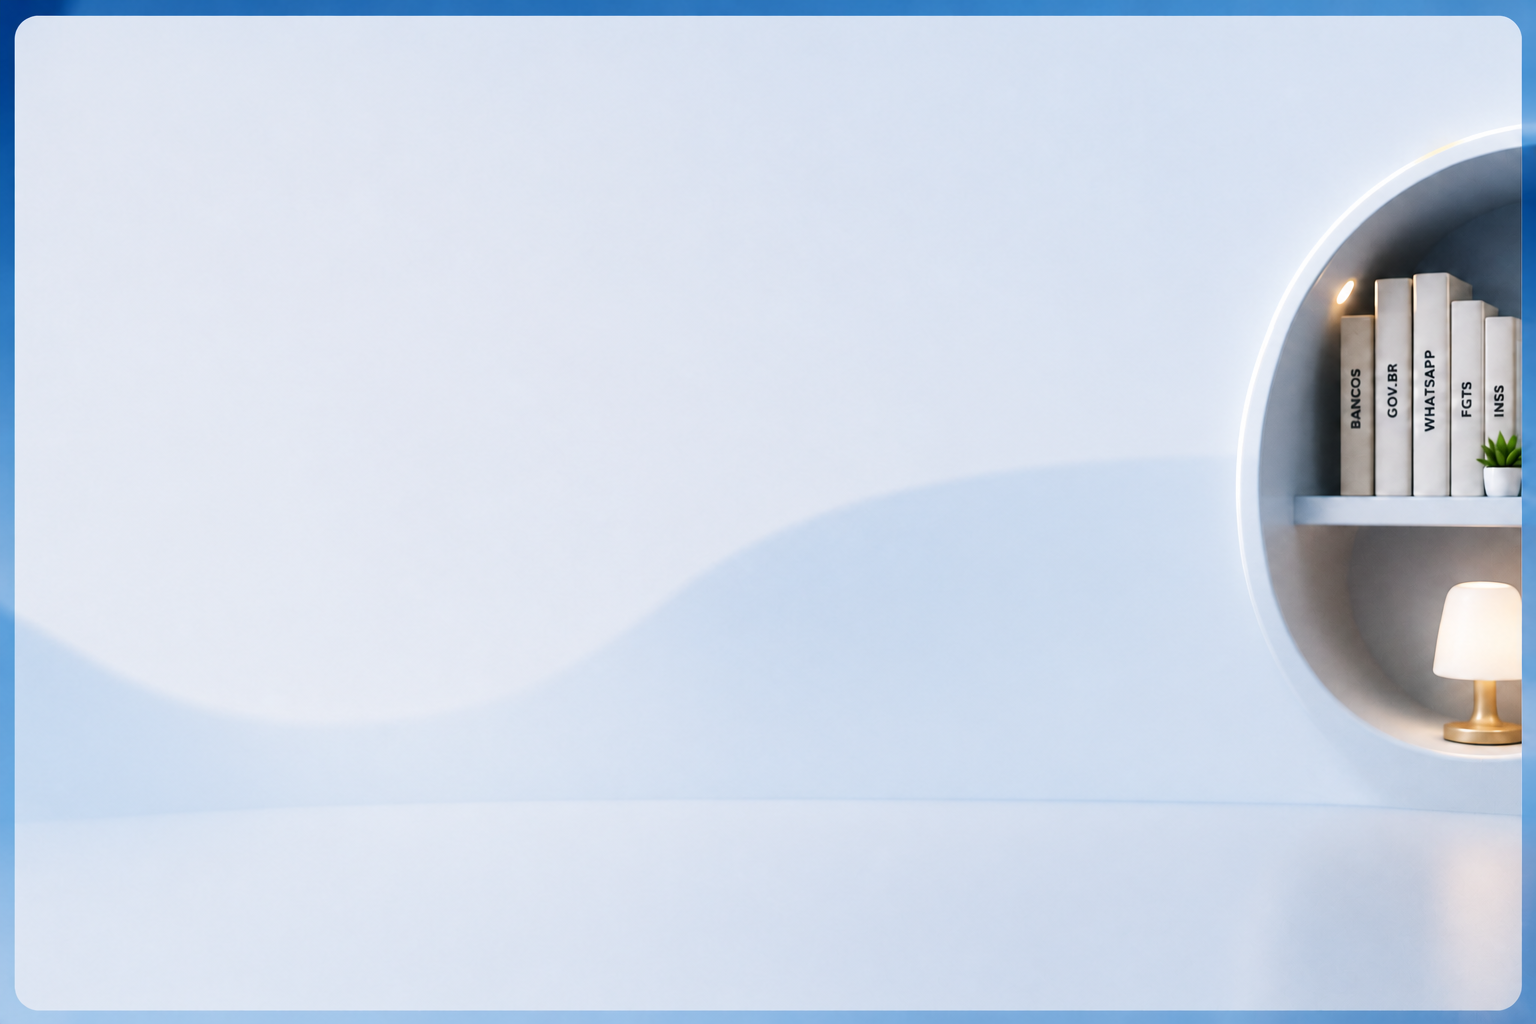
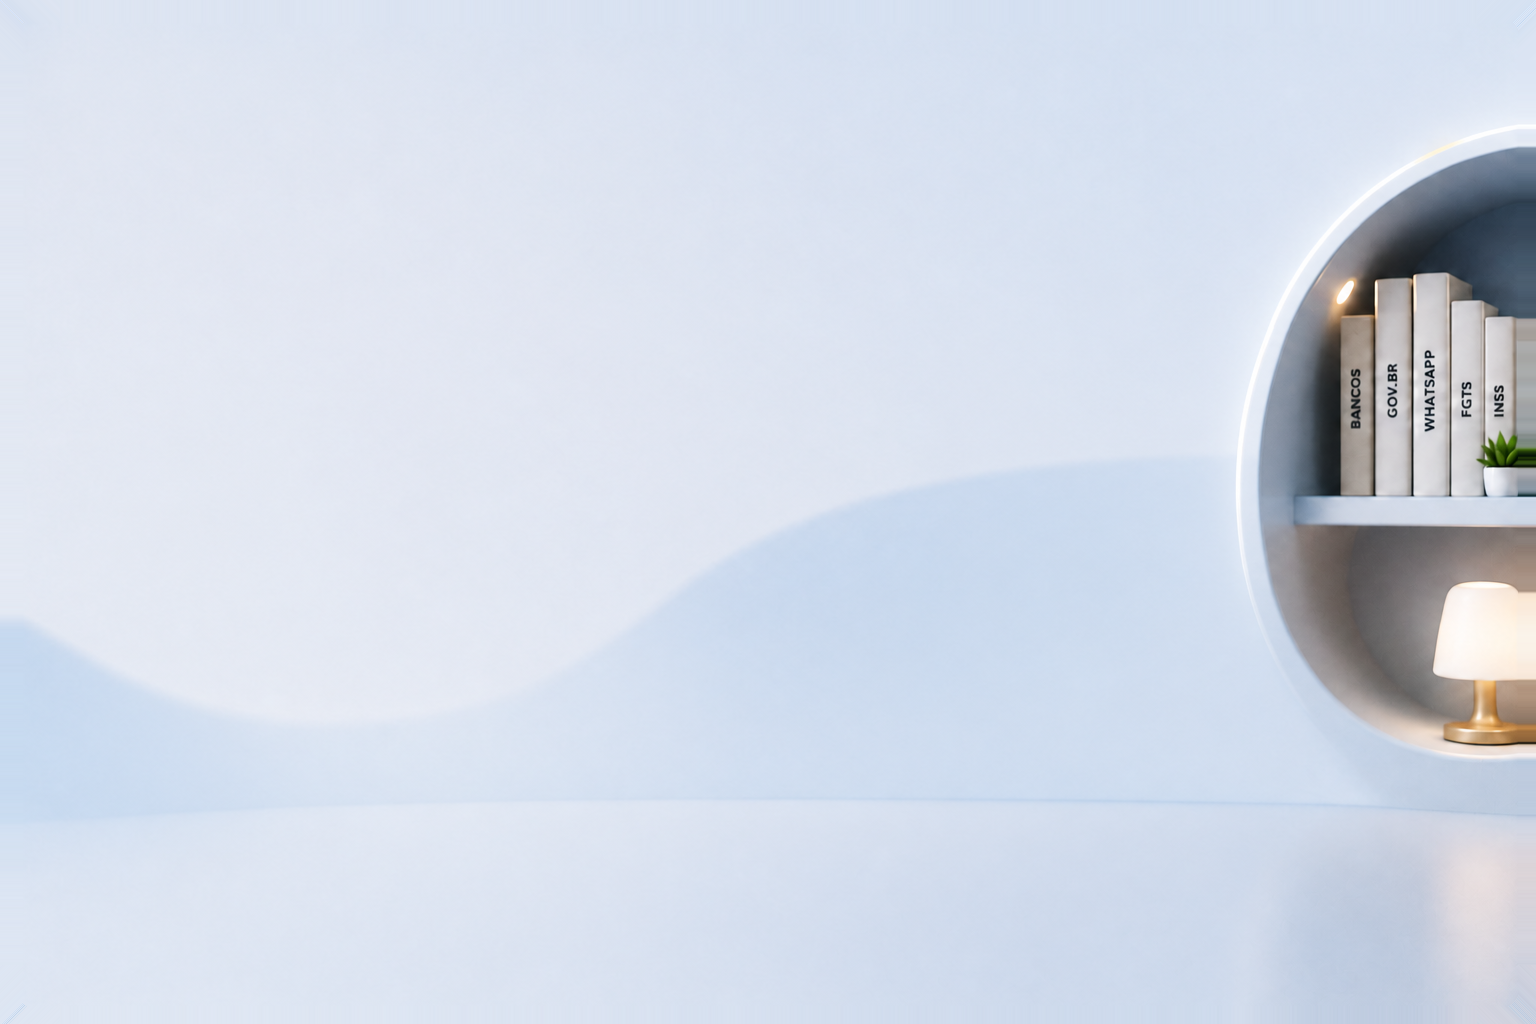
fix(home): preencher cantos e bordas com cenario claro sem moldura azul

Changed region(s): [[0.0, 0.0, 1.0, 1.0]]

diff --git a/src/app/globals.css b/src/app/globals.css
@@ -376,14 +376,7 @@ button:disabled,
 }
 
 .guido-home::before {
-  position: absolute;
-  inset: 0;
-  z-index: 20;
-  border: clamp(0.5rem, 1vw, 1rem) solid rgba(35, 116, 179, 0.78);
-  border-radius: clamp(1rem, 1.7vw, 1.65rem);
-  box-shadow: inset 0 0 0 1px rgba(229, 244, 255, 0.58);
-  content: "";
-  pointer-events: none;
+  display: none;
 }
 
 .guido-home::after {
@@ -407,8 +400,7 @@ html[data-theme="dark"] .guido-home {
 }
 
 html[data-theme="dark"] .guido-home::before {
-  border-color: rgba(4, 31, 74, 0.92);
-  box-shadow: inset 0 0 0 1px rgba(92, 159, 230, 0.2);
+  display: none;
 }
 
 .guido-home-content {
